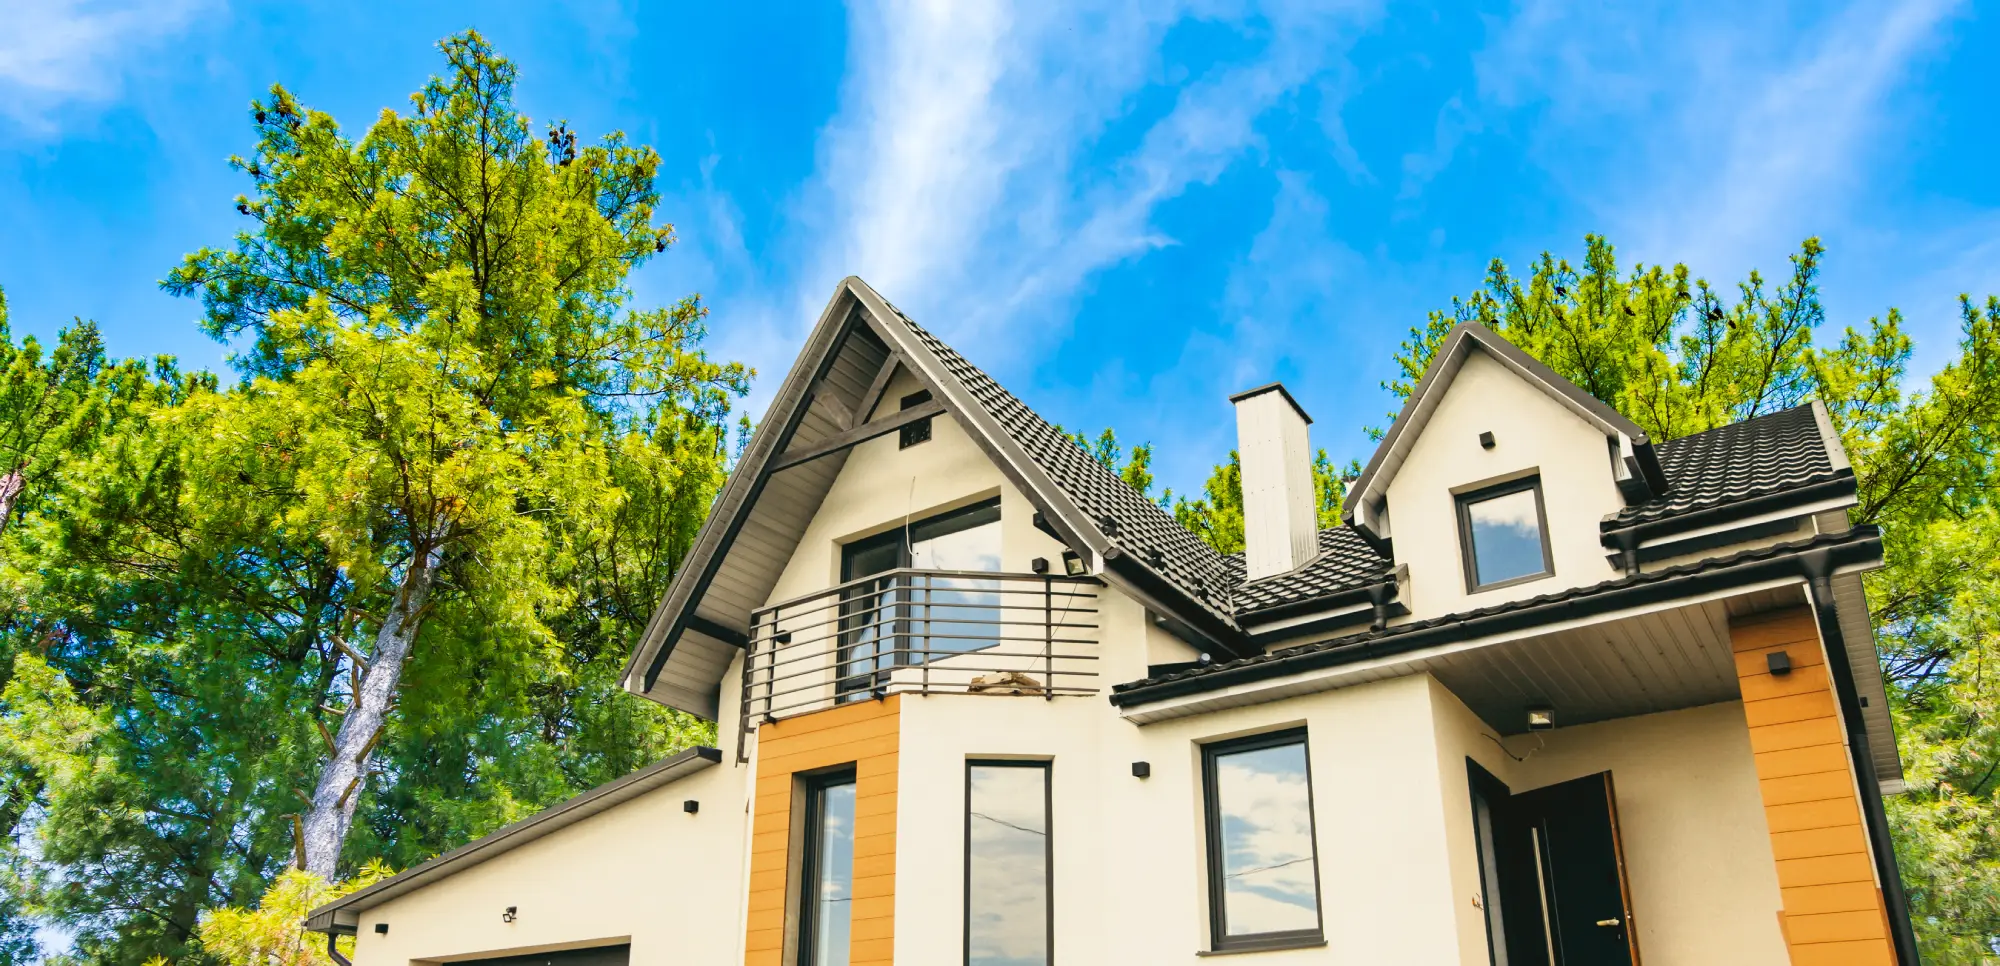
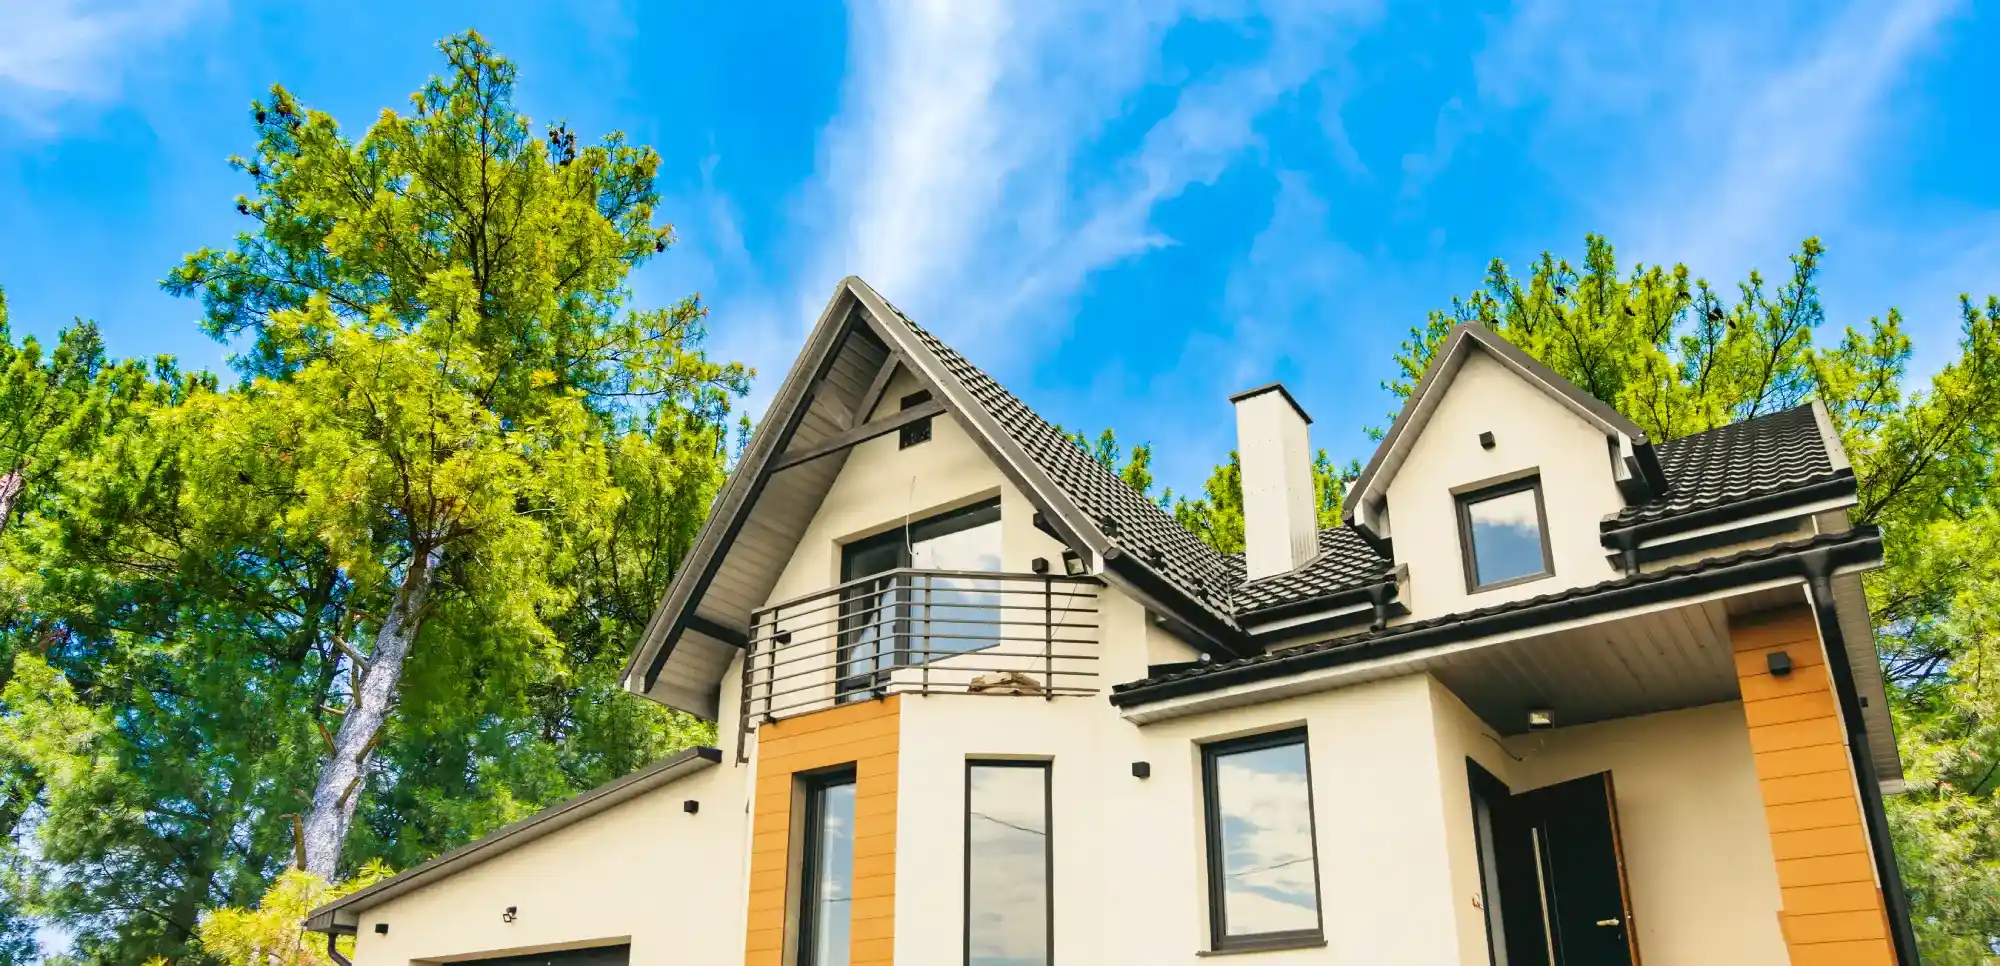
added link redirects

diff --git a/style/sample.css b/style/sample.css
@@ -4107,6 +4107,19 @@ footer h3 {
     padding: 0;
 }
 
+.dist-card ul li a{
+    color: var(--dark-color);
+    font-size: 16px;
+    text-decoration: underline;
+    transition: all 300ms ease-in-out;
+}
+
+.dist-card ul li a:hover,
+.dist-card ul li a:active{
+    color: var(--primary-color);
+    text-decoration: none;
+}
+
 @media (min-width: 768px) {
     .dist-card-container{
         display: grid;

diff --git a/style/contact/contact-distributor-list.css b/style/contact/contact-distributor-list.css
@@ -96,6 +96,19 @@
     padding: 0;
 }
 
+.dist-card ul li a{
+    color: var(--dark-color);
+    font-size: 16px;
+    text-decoration: underline;
+    transition: all 300ms ease-in-out;
+}
+
+.dist-card ul li a:hover,
+.dist-card ul li a:active{
+    color: var(--primary-color);
+    text-decoration: none;
+}
+
 @media (min-width: 768px) {
     .dist-card-container{
         display: grid;

diff --git a/section/contact/contact-distributor-list.php b/section/contact/contact-distributor-list.php
@@ -25,7 +25,9 @@
                     <li>Sales Office/Warehouse Address: #80 Hazelton St.,Vista Verde Country Homes, Cainta, 1900, Rizal.</li>
                     <li>Phone: +63 (02) 8255 3383 / 8710 5284 / 8710 5285</li>
                     <li>Mobile: Smart +63 (0)998 542 6042 / Globe +63 (0)917 427 9727</li>
-                    <li>Email: inquiry@aga.ph / jing.tumapat@aga.ph / ronald.tumapat@aga.ph</li>
+                    <li>Email: <a href="mailto:inquiry@aga.ph">inquiry@aga.ph</a> / 
+                            <a href="mailto:jing.tumapat@aga.ph">jing.tumapat@aga.ph</a> / 
+                            <a href="mailto:ronald.tumapat@aga.ph">ronald.tumapat@aga.ph</a></li>
                 </ul>
             </div>
             <div class="dist-card add-reveal">
@@ -36,7 +38,7 @@
                     <li>Sky Tunnel and Green-Vent Products Only</li>
                     <li>Pampanga, Philippines</li>
                     <li>Mobile: +63 (0)917 848 6825 / +63 (0)922 871 5029</li>
-                    <li>Email: val_consunji@yahoo.com</li>
+                    <li>Email: <a href="mailto:val_consunji@yahoo.com">val_consunji@yahoo.com</a></li>
                 </ul>
             </div>
 
@@ -59,9 +61,9 @@
                     <li>Contact Person: Pau V. Inserto</li>
                     <li>Phone: +63 (088) 850 5050</li>
                     <li>Mobile: +63 (0)917 775 0592</li>
-                    <li>Website: www.urbanlifestyle.com.ph</li>
-                    <li>Facebook Page: www.facebook.com/urbanlifestyleblindsandshades</li>
-                    <li>Email: sales@urbanlifestyle.com.ph</li>
+                    <li>Website: <a href="https://www.urbanlifestyle.com.ph">www.urbanlifestyle.com.ph</a></li>
+                    <li>Facebook Page: <a href="https://www.facebook.com/urbanlifestyleblindsandshades">urbanlifestyleblindsandshades</a></li>
+                    <li>Email: <a href="mailto:sales@urbanlifestyle.com.ph">sales@urbanlifestyle.com.ph</a></li>
                 </ul>
             </div>
         </div>
@@ -81,8 +83,8 @@
                     <li>1/40 Inspiration Drive Wangara, W.A. 6065 Australia</li>
                     <li>Phone: +61 (08) 9302 6622</li>
                     <li>Fax: +61 (08) 9302 6007</li>
-                    <li>Email: info@calidad.net.au</li>
-                    <li>Web: www.calidad.net.au</li>
+                    <li>Email: <a href="mailto:info@calidad.net.au">info@calidad.net.au</a></li>
+                    <li>Web: <a href="https://www.calidad.net.au">www.calidad.net.au</a></li>
                 </ul>
             </div>
             
@@ -95,8 +97,8 @@
                     <li>Contact: Mr Fernando Navarrete</li>
                     <li>Tels.: (56-2)25896070 & 25896000</li>
                     <li>Fax.: (56-2) 25550528</li>
-                    <li>Email: fnavarrete@norglas.cl</li>
-                    <li>Web: www.norglas.cl</li>
+                    <li>Email: <a href="mailto:fnavarrete@norglas.cl">fnavarrete@norglas.cl</a></li>
+                    <li>Web: <a href="https://www.norglas.cl">www.norglas.cl</a></li>
                 </ul>
             </div>
             
@@ -130,8 +132,8 @@
                     <li>Show room: Hameisha 18 st', Nesher, Israel</li>
                     <li>Phone: 972-4-8-40-20-92</li>
                     <li>Fax: 972-54-999-75-04</li>
-                    <li>Email: info@perguland.co.il</li>
-                    <li>Web:www.pergusun.co.il</li>
+                    <li>Email: <a href="mailto:info@perguland.co.il">info@perguland.co.il</a></li>
+                    <li>Web: <a href="https://www.pergusun.co.il">www.pergusun.co.il</a></li>
                 </ul>
             </div>
             
@@ -142,7 +144,7 @@
                 <ul>
                     <li>M. Havathi, Fareedhee Magu <br>Male' 20263, Maldives</li>
                     <li>Phone: +960 760 8605</li>
-                    <li>Email:sales@sandn.com.my</li>
+                    <li>Email: <a href="mailto:sales@sandn.com.my">sales@sandn.com.my</a></li>
                 </ul>
             </div>
             
@@ -154,8 +156,8 @@
                     <li>6/11 Ashley Place, Papamoa 3118 <br>Tauranga, New Zealand.</li>
                     <li>Phone: 0508-777-222</li>
                     <li>Mobile: 021 418 988</li>
-                    <li>Email:sales@solarinnovations.co.nz</li>
-                    <li>Web: www.suntrenz.co.nz</li>
+                    <li>Email: <a href="mailto:sales@solarinnovations.co.nz">sales@solarinnovations.co.nz</a></li>
+                    <li>Web: <a href="https://www.suntrenz.co.nz">www.suntrenz.co.nz</a></li>
                 </ul>
             </div>
             
@@ -168,8 +170,8 @@
                     <li>Phone: 02-300-5671-3</li>
                     <li>Mobile: +66-81-836-9328</li>
                     <li>Contact Person: Kangkij Petchsakulrat</li>
-                    <li>Email: kangkij@leafpower.co.th</li>
-                    <li>Web: www.leafpower.co.th</li>
+                    <li>Email: <a href="mailto:kangkij@leafpower.co.th">kangkij@leafpower.co.th</a></li>
+                    <li>Web: <a href="https://www.leafpower.co.th">www.leafpower.co.th</a></li>
                 </ul>
             </div>
             
@@ -180,21 +182,22 @@
                 <ul>
                     <li>Orhangazi Mah. Isiso San. Sit. 3.yol No.38 <br>34517 Istanbul, Turkey</li>
                     <li>Phone: +90 (212) 612 2774</li>
-                    <li>Email: info@havak.com</li>
-                    <li>Web: www.havak.com</li>
+                    <li>Email: <a href="mailto:info@havak.com">info@havak.com</a></li>
+                    <li>Web: <a href="https://www.havak.com">www.havak.com</a></li>
                 </ul>
             </div>
             
             <div class="dist-card add-reveal">
-                <h3>United Arab Emirates and Qatar</h3>
+                <h3>Host Green Solar Energy System Trading L.L.C</h3>
                 <img src="asset/img/flags/UAE&Qatar.webp" alt="UAE&Qatar">
                 <h4>Green Energy Solutions</h4>
                 <ul>
-                    <li>(Sky Tunnel Products Only) <br> Shed 4, Obaid Ghanim Al <br>Mutawie Warehouses 18 Street Community 364 <br>Al Ghose 1 Dubai, United Arab Emirates</li>
-                    <li>Phone: +971 (04) 338 2455</li>
-                    <li>Fax: +971 (04) 338 3979</li>
-                    <li>Email: info@greenenergysolutions.ae</li>
-                    <li>Web: www.greenenergysolutions.ae</li>
+                    <li>(Sky Tunnel Products Only)</li>
+                    <li>Persia O01 - Dubai International City <br>Dubai, United Arab Emirates</li>
+                    <li>Phone:  +971-4 327 7459</li>
+                    <li>Mob:  +971-50 653 1524</li>
+                    <li>Email:  <a href="mailto:info@hostgreenen.org">info@hostgreenen.org</a></li>
+                    <li>Web: <a href="https://www.hostgreenen.org">www.hostgreenen.org</a></li>
                 </ul>
             </div>
             
@@ -206,8 +209,8 @@
                     <li>162 Road 3, Trung Son, Binh Hung Ward, Binh Chanh Dist, HCMC, Vietnam</li>
                     <li>Tel: (84-8) 5431 4242</li>
                     <li>Fax: (84-8) 3868 2359</li>
-                    <li>Email Mr Le Sy Nhat; nhatls@tanbaocorp.vn</li>
-                    <li>Web: www.tanbaocorp.vn</li>
+                    <li>Email Mr Le Sy Nhat; <a href="mailto:nhatls@tanbaocorp.vn">nhatls@tanbaocorp.vn</a></li>
+                    <li>Web: <a href="https://tanbaocorp.vn">www.tanbaocorp.vn</a></li>
                 </ul>
             </div>
         </div>
